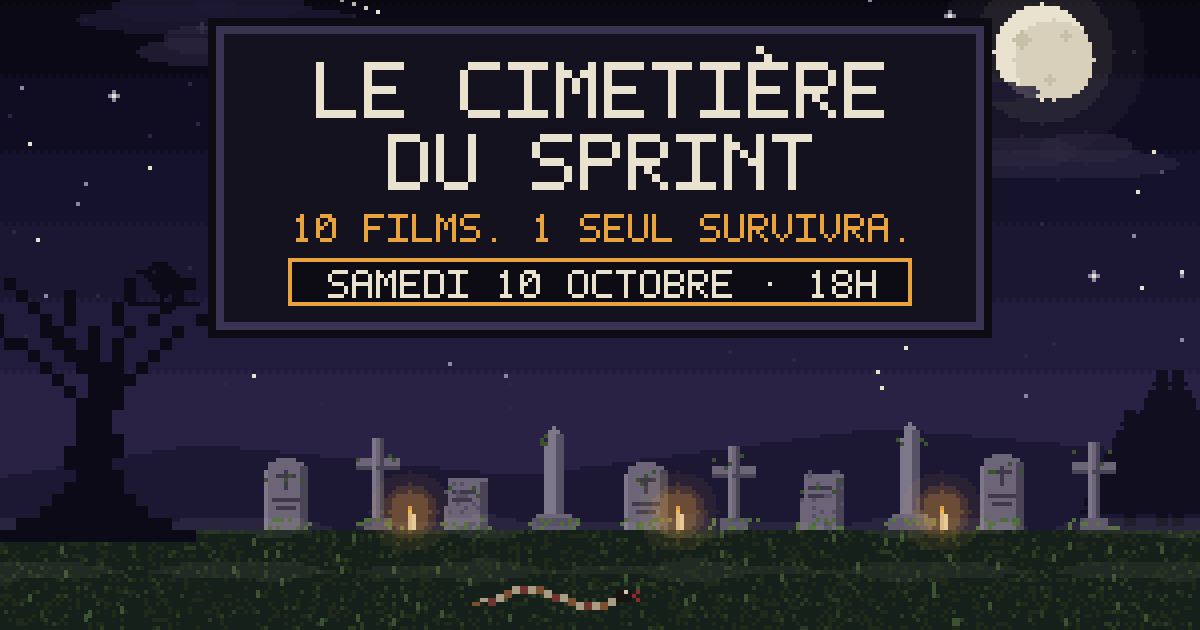
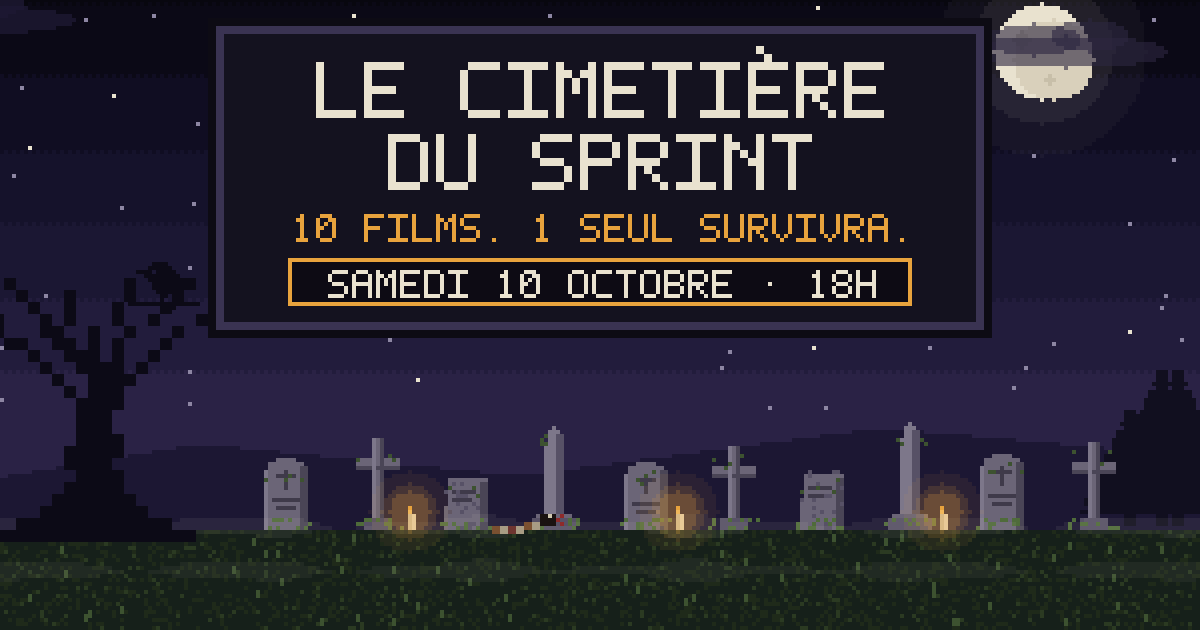
fix: apaiser les animations du teaser

diff --git a/src/app/features/teaser/teaser-night-animator.ts b/src/app/features/teaser/teaser-night-animator.ts
@@ -5,8 +5,11 @@ import { TEASER_GROUND_Y, TEASER_SCENE_WIDTH } from './teaser-graveyard.scene';
 
 /**
  * Tout ce qui bouge sur la page teaser, dessiné image par image en fonction du temps écoulé :
- * - calque « ciel animé » : étoiles qui scintillent, étoile filante, deux couches de nuages en parallaxe ;
- * - calque « créatures » : l'arbre mort qui se balance, le corbeau qui tourne la tête, le serpent qui rampe.
+ * - calque « ciel animé » : quelques étoiles qui scintillent doucement, une rare étoile filante,
+ *   deux couches de nuages en parallaxe très lente ;
+ * - calque « créatures » : l'arbre mort qui se balance, le corbeau qui tourne la tête,
+ *   et le serpent qui pointe le bout du nez derrière une stèle de temps en temps.
+ * Tout est volontairement lent et discret : le décor accompagne le texte, il ne doit pas le concurrencer.
  * Fichier d'illustration pixel art : la palette vit avec le dessin.
  */
 
@@ -16,6 +19,8 @@ interface TwinklingStar {
   readonly periodInMilliseconds: number;
   readonly phase: number;
   readonly isBright: boolean;
+  /** Seule une petite partie des étoiles scintille ; les autres restent fixes. */
+  readonly isTwinkling: boolean;
 }
 
 interface DriftingCloud {
@@ -31,19 +36,20 @@ const STAR_COUNT: number = 90;
 /** Zone de la lune : pas d'étoile devant elle. */
 const MOON_AREA = { left: 250, right: 292, top: 8, bottom: 52 } as const;
 
-const SHOOTING_STAR_PERIOD_IN_MILLISECONDS: number = 13_000;
+const TWINKLING_STAR_RATIO: number = 1 / 6;
+const SHOOTING_STAR_PERIOD_IN_MILLISECONDS: number = 45_000;
 const SHOOTING_STAR_DURATION_IN_MILLISECONDS: number = 700;
 const SHOOTING_STAR_TRAIL_LENGTH: number = 10;
 
 const TREE_SCALE: number = 3;
 const TREE_X: number = 2;
-const TREE_FRAME_DURATION_IN_MILLISECONDS: number = 900;
+const TREE_FRAME_DURATION_IN_MILLISECONDS: number = 1_600;
 /** Image de base, penché à droite, base, penché à gauche : un balancement doux. */
 const TREE_SWAY_SEQUENCE: readonly number[] = [0, 1, 0, 2];
 const RAVEN_X: number = 42;
 const RAVEN_Y: number = 83;
-const RAVEN_CYCLE_IN_MILLISECONDS: number = 6_000;
-const RAVEN_LOOKING_LEFT_DURATION_IN_MILLISECONDS: number = 4_200;
+const RAVEN_CYCLE_IN_MILLISECONDS: number = 11_000;
+const RAVEN_LOOKING_LEFT_DURATION_IN_MILLISECONDS: number = 8_500;
 const SILHOUETTE_COLOR: string = '#0c0a16';
 
 /** Robe rayée volontairement sourde : sang séché, os sale, rouille. */
@@ -51,11 +57,23 @@ const SNAKE_RING_COLORS: readonly string[] = ['#6e3530', '#a89c84', '#7a5030', '
 const SNAKE_HEAD_COLOR: string = '#1a1210';
 const SNAKE_EYE_COLOR: string = '#cfc6ae';
 const SNAKE_TONGUE_COLOR: string = '#8e2a2a';
-const SNAKE_SEGMENT_COUNT: number = 18;
 const SNAKE_SEGMENT_SPACING: number = 2;
-const SNAKE_BASE_Y: number = 166;
-const SNAKE_SPEED_IN_PIXELS_PER_MILLISECOND: number = 0.008;
-const SNAKE_OFFSCREEN_MARGIN: number = SNAKE_SEGMENT_COUNT * SNAKE_SEGMENT_SPACING + 10;
+const SNAKE_MAXIMUM_VISIBLE_SEGMENTS: number = 6;
+/** Le serpent sort de derrière la stèle penchée (bord droit à x = 132), au ras du sol. */
+const SNAKE_HIDING_EDGE_X: number = 133;
+const SNAKE_BASE_Y: number = TEASER_GROUND_Y - 2;
+/** Une apparition toutes les 25 s, la première environ 6 s après l'arrivée sur la page. */
+const SNAKE_CYCLE_IN_MILLISECONDS: number = 25_000;
+const SNAKE_CYCLE_OFFSET_IN_MILLISECONDS: number = 13_000;
+const SNAKE_EMERGE_START_IN_MILLISECONDS: number = 19_000;
+const SNAKE_EMERGE_DURATION_IN_MILLISECONDS: number = 1_500;
+const SNAKE_STAY_DURATION_IN_MILLISECONDS: number = 2_500;
+const SNAKE_RETREAT_DURATION_IN_MILLISECONDS: number = 1_500;
+/** La langue sort deux fois pendant que le serpent guette. */
+const SNAKE_TONGUE_FLICKS_IN_MILLISECONDS: readonly (readonly [start: number, end: number])[] = [
+  [21_100, 21_500],
+  [22_200, 22_600],
+];
 
 /** Hasard à graine fixe : le ciel est le même à chaque visite. */
 function createSeededRandom(seed: number): () => number {
@@ -84,21 +102,22 @@ export class TeaserNightAnimator {
         stars.push({
           x,
           y,
-          periodInMilliseconds: 1500 + random() * 3500,
+          periodInMilliseconds: 5_000 + random() * 5_000,
           phase: random() * Math.PI * 2,
           isBright: random() > 0.75,
+          isTwinkling: random() < TWINKLING_STAR_RATIO,
         });
       }
     }
     this.stars = stars;
 
-    // Deux couches : les nuages lointains, sombres et lents ; les proches, plus clairs et plus rapides.
+    // Deux couches : les nuages lointains, sombres et très lents ; les proches, un peu moins lents.
     this.clouds = [
       {
         startX: 20,
         y: 22,
         width: 70,
-        speedInPixelsPerMillisecond: 0.003,
+        speedInPixelsPerMillisecond: 0.001,
         color: '#1d1832',
         opacity: 0.8,
       },
@@ -106,7 +125,7 @@ export class TeaserNightAnimator {
         startX: 190,
         y: 40,
         width: 90,
-        speedInPixelsPerMillisecond: 0.003,
+        speedInPixelsPerMillisecond: 0.001,
         color: '#1d1832',
         opacity: 0.8,
       },
@@ -114,7 +133,7 @@ export class TeaserNightAnimator {
         startX: 120,
         y: 58,
         width: 60,
-        speedInPixelsPerMillisecond: 0.007,
+        speedInPixelsPerMillisecond: 0.0025,
         color: '#2c2640',
         opacity: 0.6,
       },
@@ -122,7 +141,7 @@ export class TeaserNightAnimator {
         startX: 280,
         y: 30,
         width: 50,
-        speedInPixelsPerMillisecond: 0.007,
+        speedInPixelsPerMillisecond: 0.0025,
         color: '#2c2640',
         opacity: 0.6,
       },
@@ -141,31 +160,22 @@ export class TeaserNightAnimator {
   paintCreatures(creaturesPainter: PixelPainter, elapsedMilliseconds: number): void {
     creaturesPainter.clear();
     this.paintSwayingTree(creaturesPainter, elapsedMilliseconds);
-    this.paintCrawlingSnake(creaturesPainter, elapsedMilliseconds);
+    this.paintPeekingSnake(creaturesPainter, elapsedMilliseconds);
   }
 
+  /** Étoiles fixes, sauf quelques-unes qui oscillent lentement entre deux intensités, sans jamais s'éteindre. */
   private paintTwinklingStars(painter: PixelPainter, elapsedMilliseconds: number): void {
     this.stars.forEach((star: TwinklingStar) => {
+      const baseColor: string = star.isBright ? '#e9e2cf' : '#8d86a3';
+      if (!star.isTwinkling) {
+        painter.fillPixel(star.x, star.y, baseColor);
+        return;
+      }
       const brightness: number =
         (Math.sin((elapsedMilliseconds / star.periodInMilliseconds) * Math.PI * 2 + star.phase) +
           1) /
         2;
-      if (brightness < 0.3) {
-        painter.fillPixel(star.x, star.y, '#2c2640');
-        return;
-      }
-      painter.fillPixel(star.x, star.y, star.isBright || brightness > 0.8 ? '#e9e2cf' : '#8d86a3');
-      // Les étoiles les plus vives scintillent en petite croix.
-      if (star.isBright && brightness > 0.85) {
-        [
-          [-1, 0],
-          [1, 0],
-          [0, -1],
-          [0, 1],
-        ].forEach(([offsetX, offsetY]: number[]) =>
-          painter.fillPixel(star.x + offsetX, star.y + offsetY, '#8d86a3'),
-        );
-      }
+      painter.fillPixel(star.x, star.y, brightness > 0.5 ? '#e9e2cf' : '#8d86a3');
     });
   }
 
@@ -242,24 +252,29 @@ export class TeaserNightAnimator {
     );
   }
 
-  /** Le serpent traverse lentement le cimetière en ondulant, et sort la langue de temps en temps. */
-  private paintCrawlingSnake(painter: PixelPainter, elapsedMilliseconds: number): void {
-    const travelWidth: number = TEASER_SCENE_WIDTH + SNAKE_OFFSCREEN_MARGIN * 2;
-    const headX: number = Math.round(
-      ((elapsedMilliseconds * SNAKE_SPEED_IN_PIXELS_PER_MILLISECOND) % travelWidth) -
-        SNAKE_OFFSCREEN_MARGIN,
-    );
-    const bodyYAt = (x: number): number =>
-      SNAKE_BASE_Y + Math.round(2 * Math.sin(x / 5 - elapsedMilliseconds / 250));
+  /**
+   * Le serpent pointe le bout du nez derrière la stèle : il sort lentement, guette en sortant
+   * la langue, puis se retire. Le reste du temps, on ne le voit pas.
+   */
+  private paintPeekingSnake(painter: PixelPainter, elapsedMilliseconds: number): void {
+    const timeInCycle: number =
+      (elapsedMilliseconds + SNAKE_CYCLE_OFFSET_IN_MILLISECONDS) % SNAKE_CYCLE_IN_MILLISECONDS;
+    const visibleSegmentCount: number = this.snakeVisibleSegmentCount(timeInCycle);
+    if (visibleSegmentCount === 0) {
+      return;
+    }
 
-    for (let segmentIndex: number = SNAKE_SEGMENT_COUNT; segmentIndex >= 1; segmentIndex--) {
+    const headX: number = SNAKE_HIDING_EDGE_X + visibleSegmentCount * SNAKE_SEGMENT_SPACING;
+    const bodyYAt = (x: number): number =>
+      SNAKE_BASE_Y + Math.round(Math.sin(x / 4 - elapsedMilliseconds / 600));
+
+    for (let segmentIndex: number = visibleSegmentCount; segmentIndex >= 1; segmentIndex--) {
       const segmentX: number = headX - segmentIndex * SNAKE_SEGMENT_SPACING;
-      const isTailTip: boolean = segmentIndex >= SNAKE_SEGMENT_COUNT - 1;
       painter.fillRect(
         segmentX,
         bodyYAt(segmentX),
         SNAKE_SEGMENT_SPACING,
-        isTailTip ? 1 : 2,
+        2,
         SNAKE_RING_COLORS[segmentIndex % SNAKE_RING_COLORS.length],
       );
     }
@@ -267,11 +282,36 @@ export class TeaserNightAnimator {
     const headY: number = bodyYAt(headX) - 1;
     painter.fillRect(headX, headY, 4, 3, SNAKE_HEAD_COLOR);
     painter.fillPixel(headX + 2, headY, SNAKE_EYE_COLOR);
-    const isTongueOut: boolean = Math.floor(elapsedMilliseconds / 150) % 7 === 0;
+    const isTongueOut: boolean = SNAKE_TONGUE_FLICKS_IN_MILLISECONDS.some(
+      ([flickStart, flickEnd]: readonly [number, number]): boolean =>
+        timeInCycle >= flickStart && timeInCycle < flickEnd,
+    );
     if (isTongueOut) {
       painter.fillPixel(headX + 4, headY + 1, SNAKE_TONGUE_COLOR);
       painter.fillPixel(headX + 5, headY, SNAKE_TONGUE_COLOR);
       painter.fillPixel(headX + 5, headY + 2, SNAKE_TONGUE_COLOR);
     }
+  }
+
+  /** Nombre d'anneaux sortis de derrière la stèle : 0 → 6 en sortant, 6 en guettant, 6 → 0 en rentrant. */
+  private snakeVisibleSegmentCount(timeInCycle: number): number {
+    const emergeEnd: number =
+      SNAKE_EMERGE_START_IN_MILLISECONDS + SNAKE_EMERGE_DURATION_IN_MILLISECONDS;
+    const retreatStart: number = emergeEnd + SNAKE_STAY_DURATION_IN_MILLISECONDS;
+    const retreatEnd: number = retreatStart + SNAKE_RETREAT_DURATION_IN_MILLISECONDS;
+    if (timeInCycle < SNAKE_EMERGE_START_IN_MILLISECONDS || timeInCycle >= retreatEnd) {
+      return 0;
+    }
+    if (timeInCycle < emergeEnd) {
+      const emergeProgress: number =
+        (timeInCycle - SNAKE_EMERGE_START_IN_MILLISECONDS) / SNAKE_EMERGE_DURATION_IN_MILLISECONDS;
+      return Math.round(emergeProgress * SNAKE_MAXIMUM_VISIBLE_SEGMENTS);
+    }
+    if (timeInCycle < retreatStart) {
+      return SNAKE_MAXIMUM_VISIBLE_SEGMENTS;
+    }
+    const retreatProgress: number =
+      (timeInCycle - retreatStart) / SNAKE_RETREAT_DURATION_IN_MILLISECONDS;
+    return Math.round((1 - retreatProgress) * SNAKE_MAXIMUM_VISIBLE_SEGMENTS);
   }
 }

diff --git a/scripts/generer-image-partage.ts b/scripts/generer-image-partage.ts
@@ -25,8 +25,8 @@ const OUTPUT_WIDTH: number = 1200;
 const OUTPUT_HEIGHT: number = 630;
 /** Chaque pixel « art » devient un carré de 4×4 : 320×180 → 1280×720, recadré au centre. */
 const SCALE: number = 4;
-/** Instant figé des animations : le serpent est au milieu, une étoile filante passe. */
-const FROZEN_ELAPSED_MILLISECONDS: number = 26_300;
+/** Instant figé des animations : le serpent pointe le nez derrière la stèle, langue sortie. */
+const FROZEN_ELAPSED_MILLISECONDS: number = 8_200;
 
 // ---------------------------------------------------------------------------
 // Faux canvas : juste ce dont PixelPainter a besoin (fillRect, clearRect, fillStyle, globalAlpha)

diff --git a/src/app/features/teaser/teaser-page.css b/src/app/features/teaser/teaser-page.css
@@ -18,8 +18,9 @@
   image-rendering: pixelated;
 }
 
+/* Les bougies vacillent à peine : présentes, sans attirer l'œil. */
 .teaser-page__layer--lights {
-  animation: teaser-page-flicker 3s infinite;
+  animation: teaser-page-flicker 6s ease-in-out infinite;
 }
 
 /* L'araignée qui monte et descend, en haut à droite. */
@@ -140,13 +141,7 @@
   100% {
     opacity: 1;
   }
-  45% {
-    opacity: 0.75;
-  }
   50% {
-    opacity: 0.4;
-  }
-  55% {
     opacity: 0.85;
   }
 }
